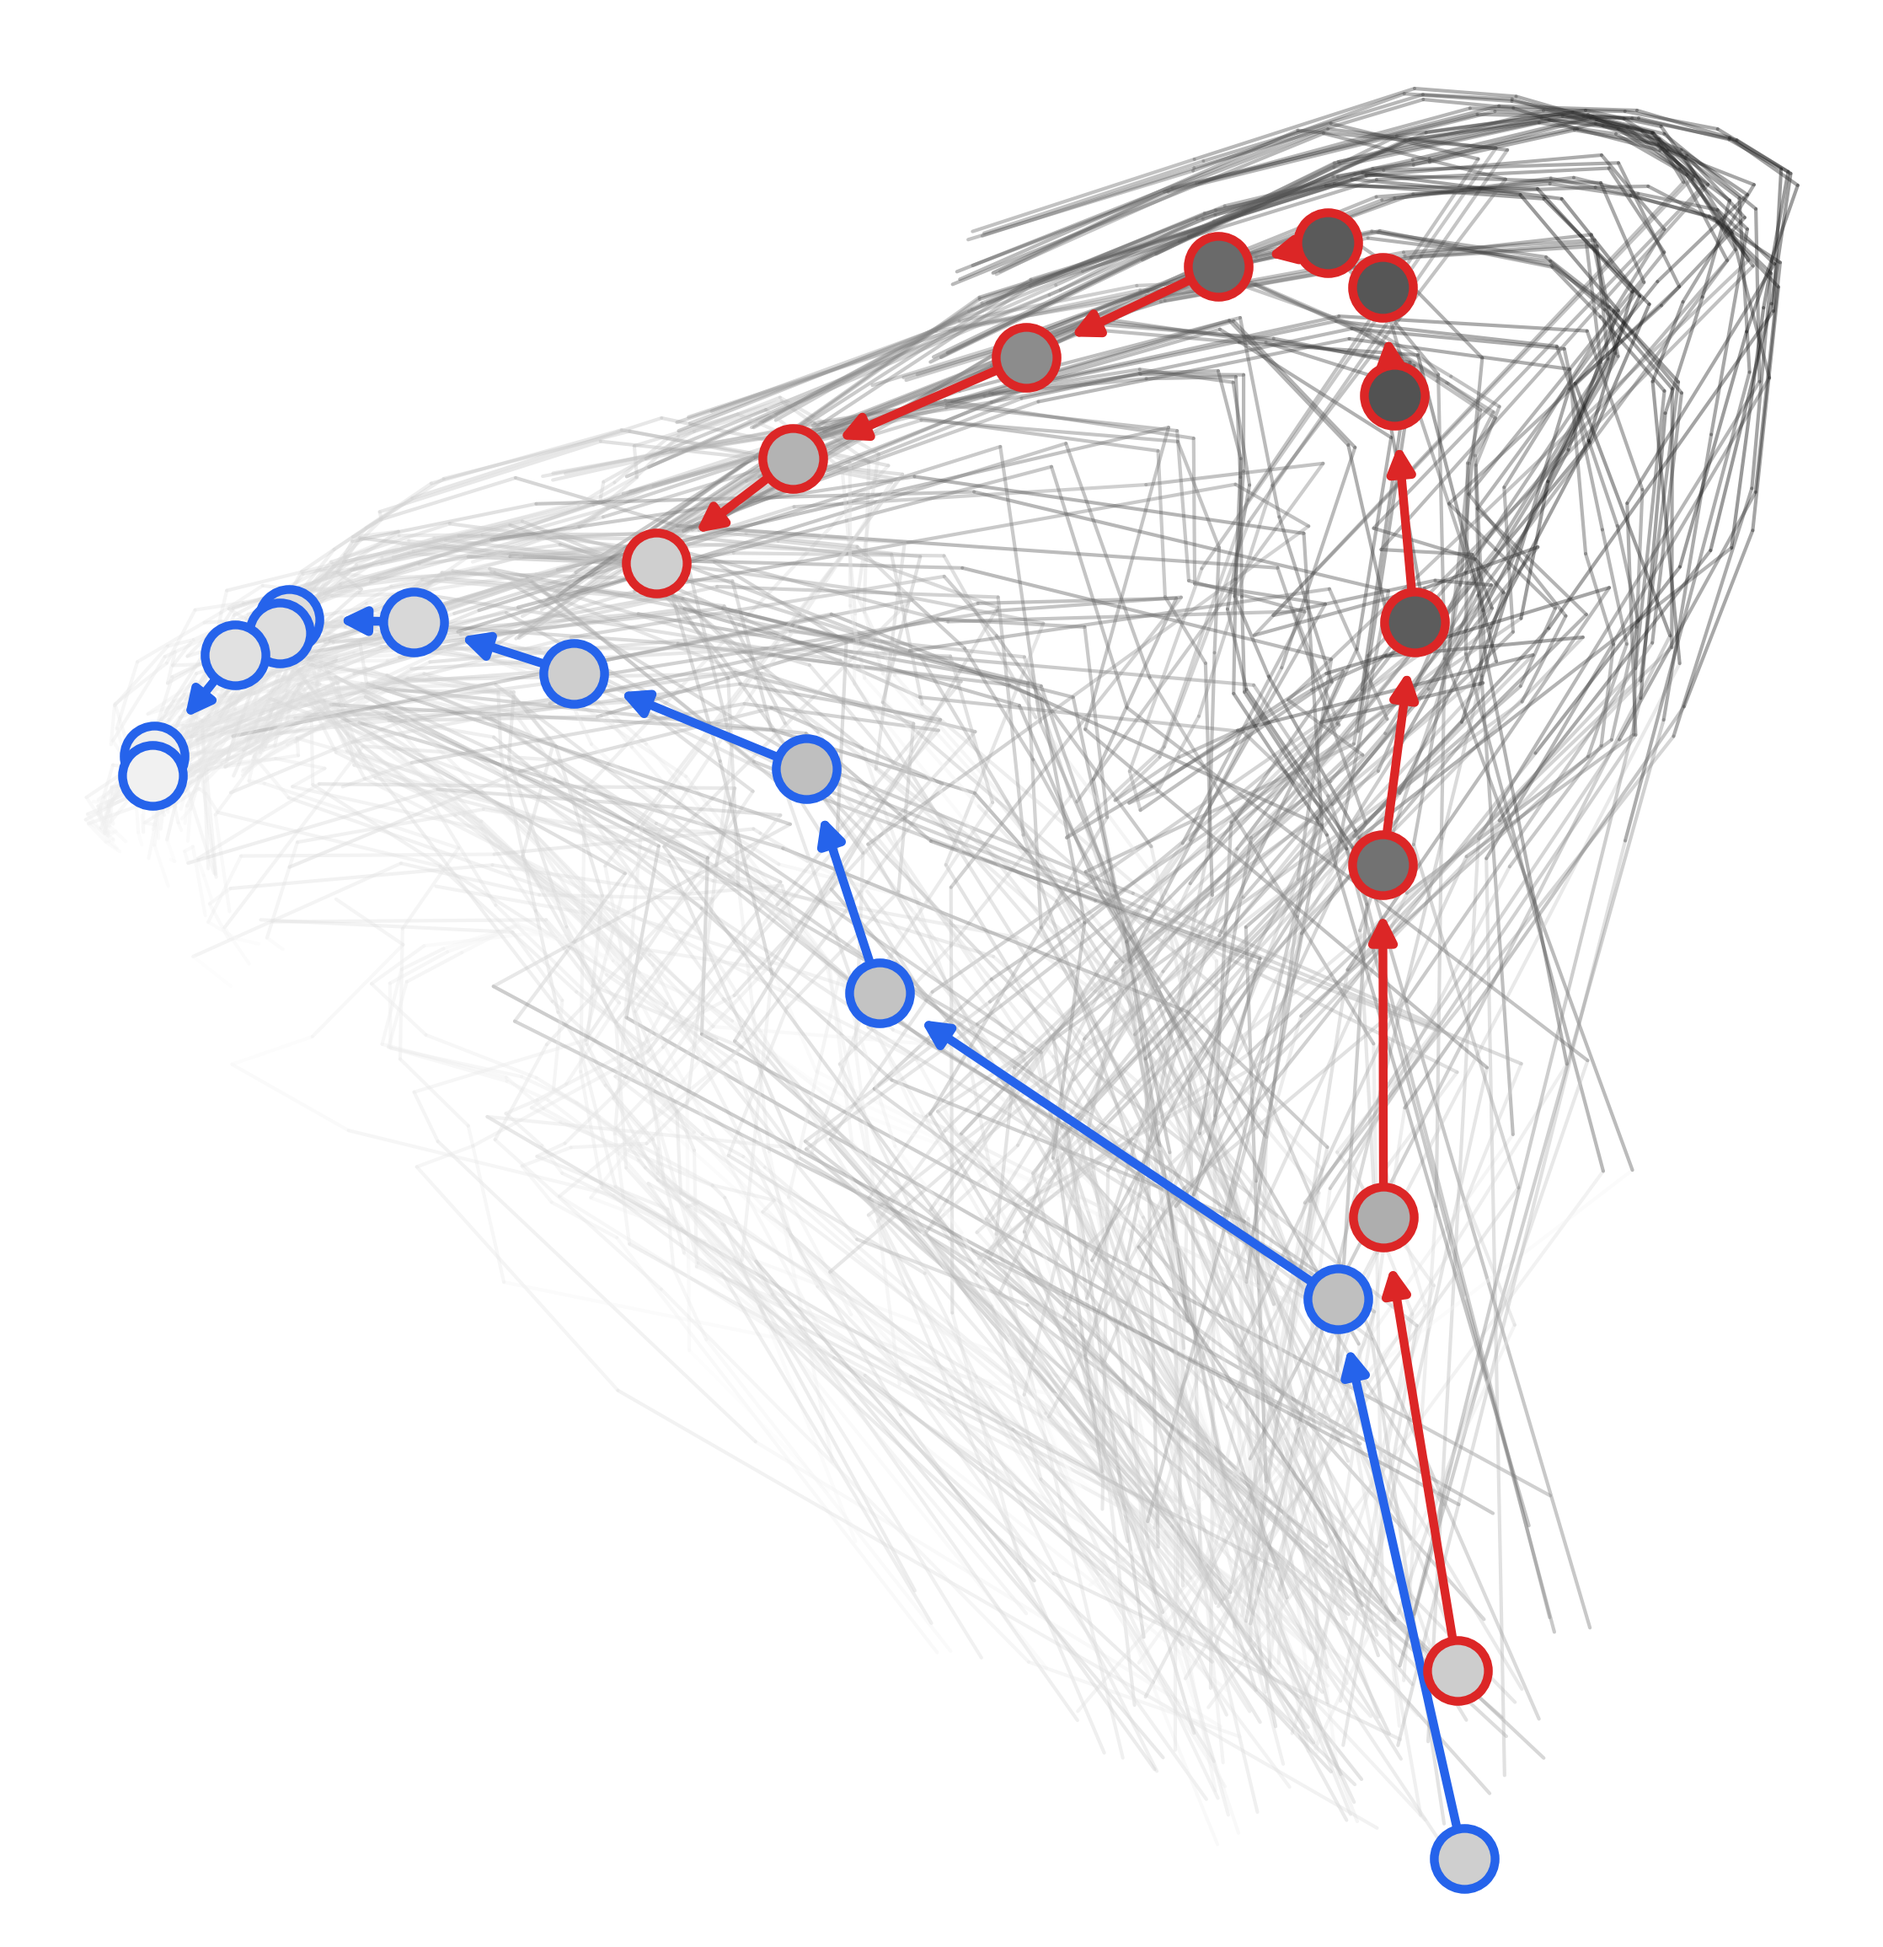
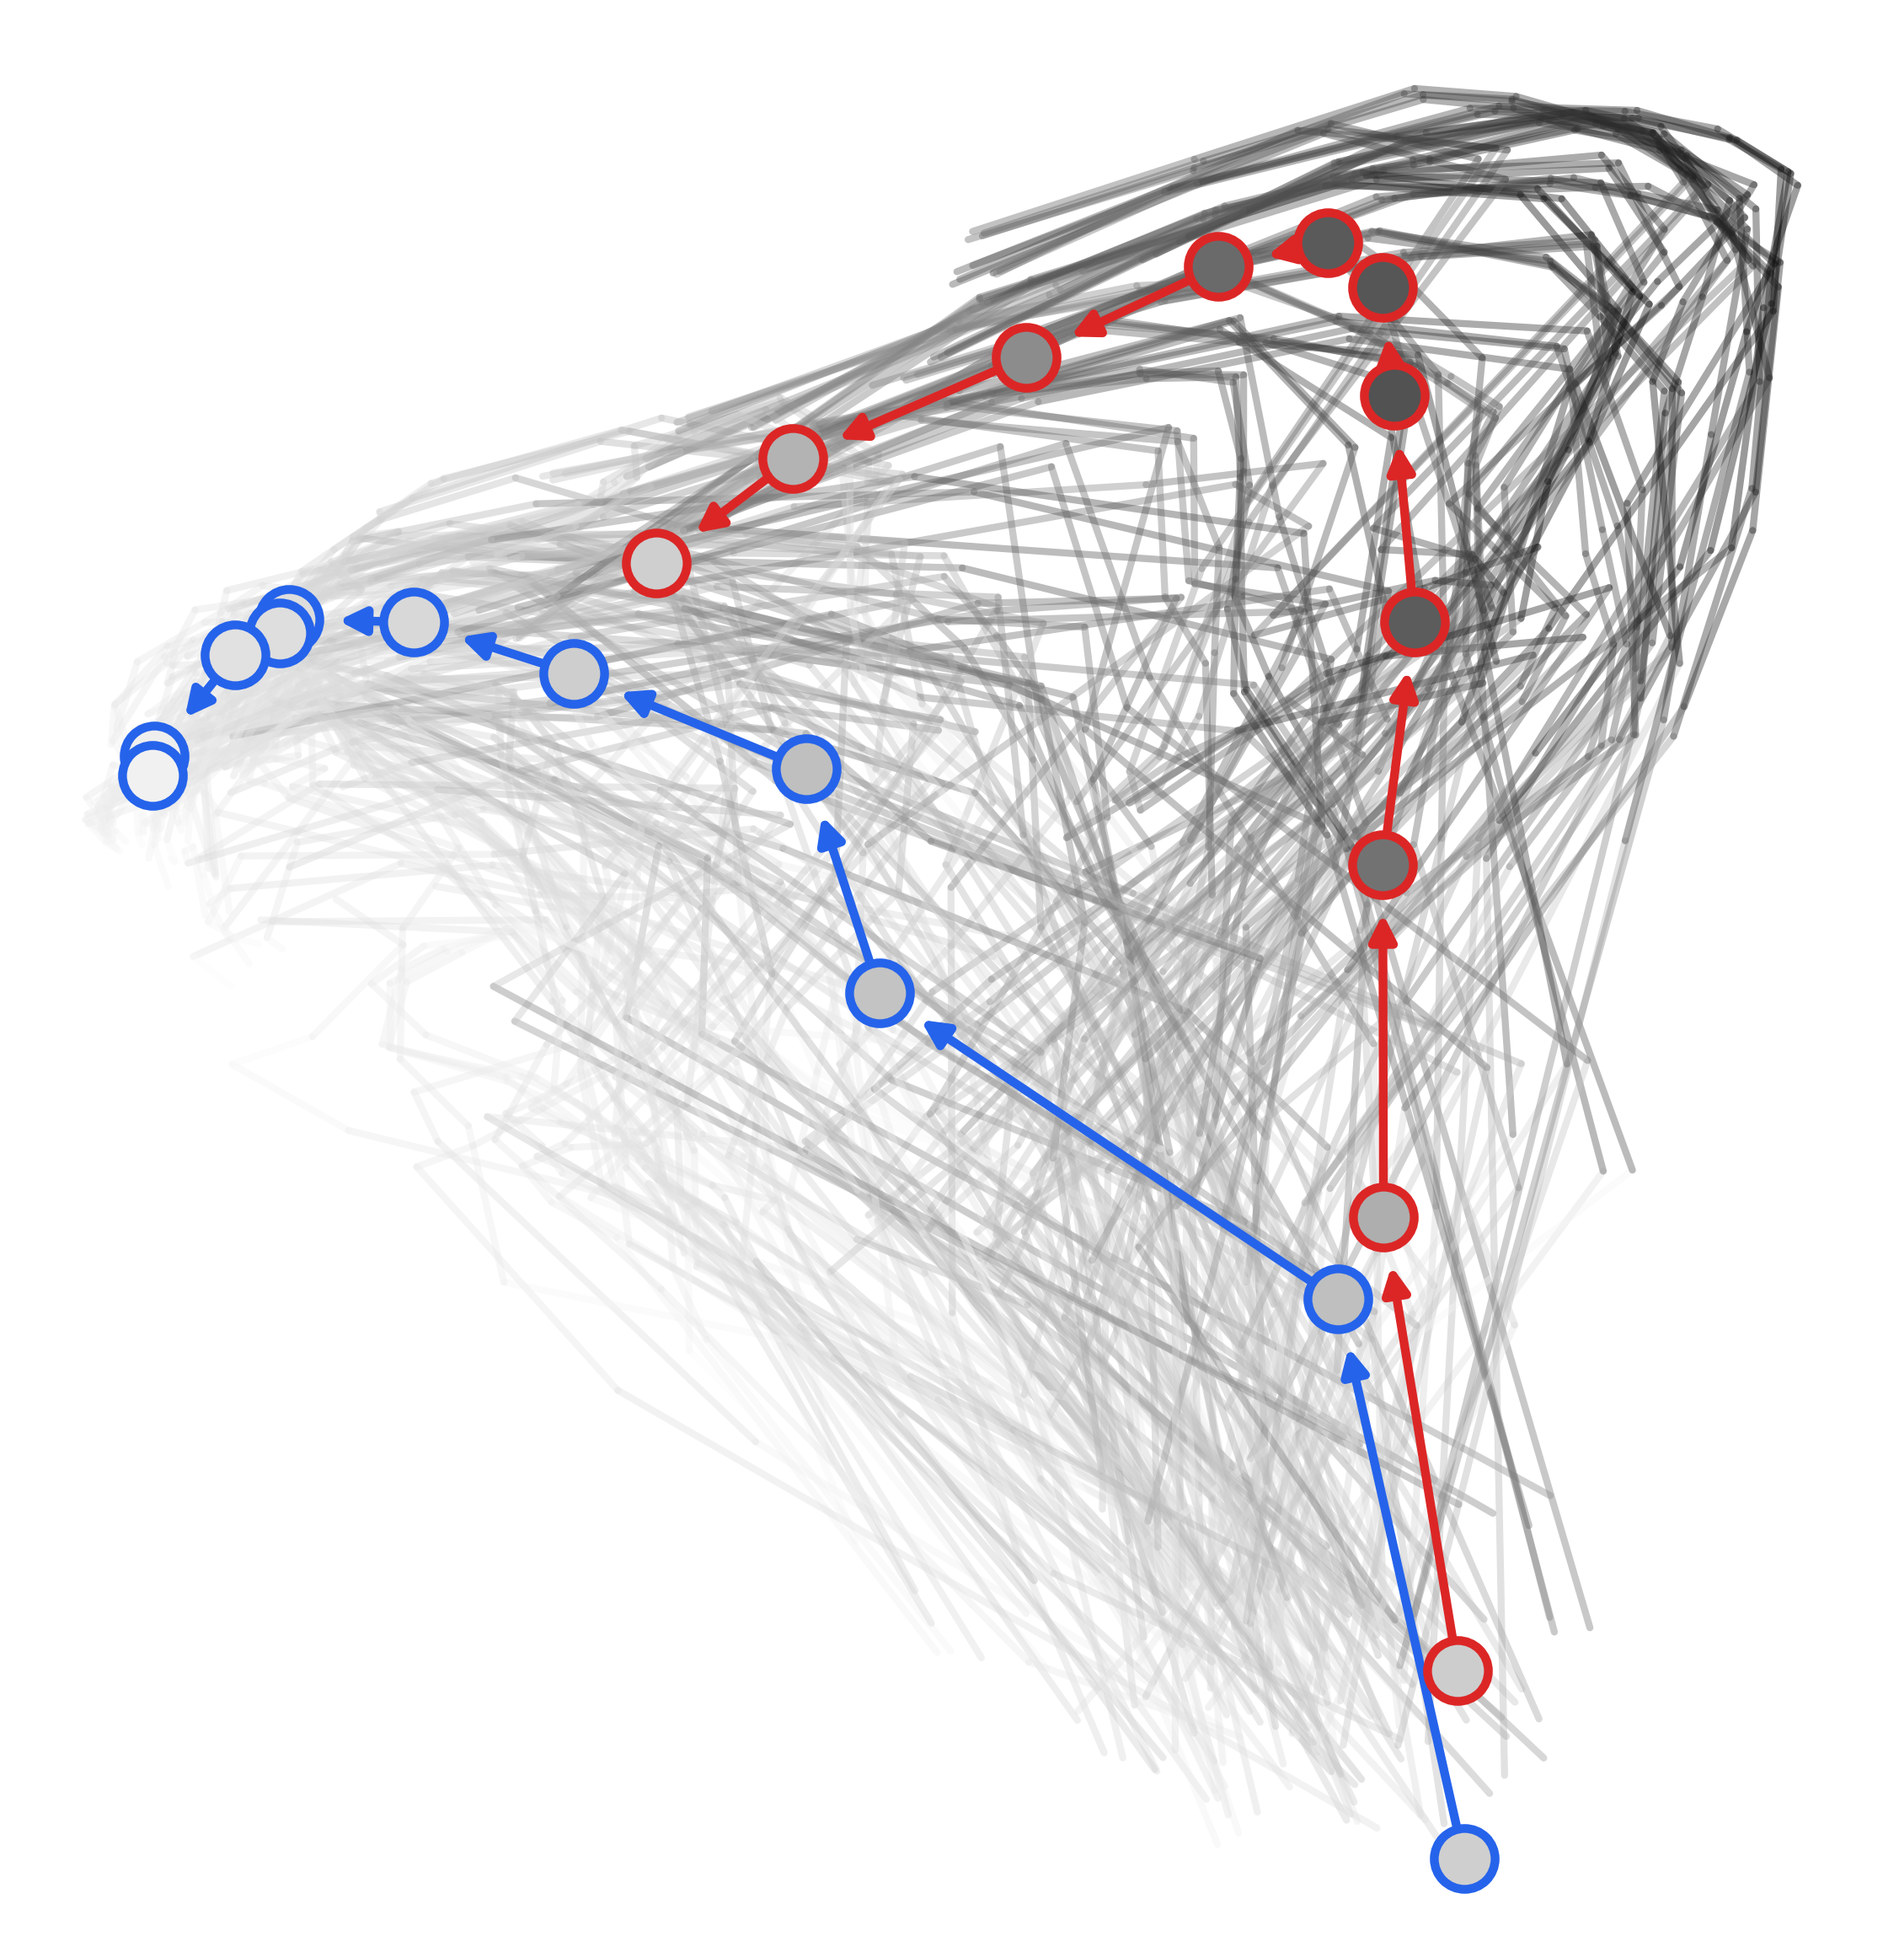
Figures: double bg-linewidth (1.0 → 2.0) for clearer coloration

diff --git a/figures/pc_highlighted.py b/figures/pc_highlighted.py
@@ -89,7 +89,7 @@ def main() -> None:
         help="Alpha for background trajectory edges.",
     )
     ap.add_argument(
-        "--bg-linewidth", type=float, default=1.0,
+        "--bg-linewidth", type=float, default=2.0,
         help="Linewidth for background trajectory edges.",
     )
     ap.add_argument(
